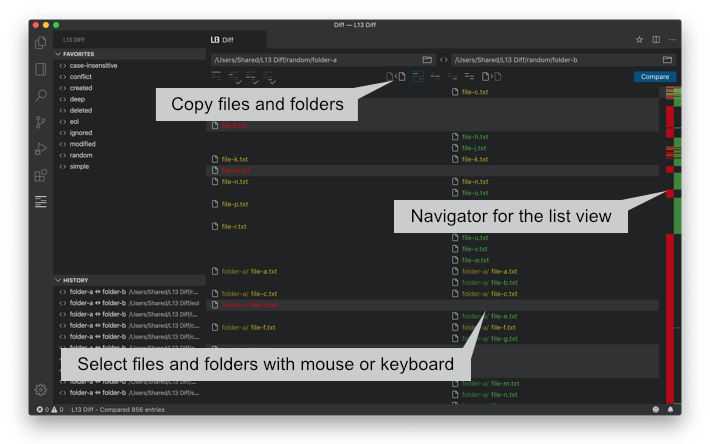
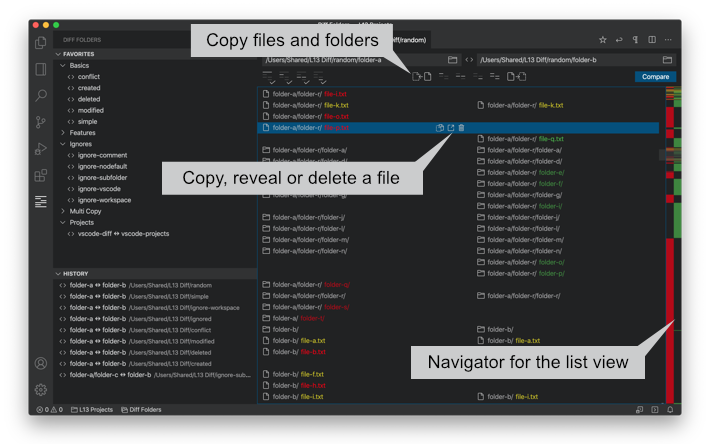
- added new preview images

diff --git a/README.md b/README.md
@@ -8,7 +8,7 @@ Compare two folders in Visual Studio Code.
 
 - Changed display name for extension from `L13 Diff` to `Diff Folders`.
 - Added drag'n drop support for path names in the list view which makes cross diffs possible. Please read the description `List Drag'n Drop` to see how it works.
-- Added groups to favorites to group your favorite diff and open all at once.
+- Added groups for favorites to group your diffs and open all at once.
 - Added `l13Diff.initialFavoriteGroupState` to set the initial state of the groups.
 
 ## Features
@@ -36,25 +36,13 @@ Compare two folders in Visual Studio Code.
 * Open multiple panels by click on the icon in the favorites view.
 * Copy the same files from the same location to multiple folders at once.
 
-### Welcome
-
-![Diff Folders Welcome](images/preview-welcome.png)
-
 ### Basics
 
 ![Diff Folders Basics](images/preview-start.png)
 
-### Menu
-
-![Diff Folders Menu](images/preview-menu.png)
-
 ### Favorites
 
 ![Diff Folders Favorites](images/preview-favorites.png)
-
-### History
-
-![Diff Folders History](images/preview-history.png)
 
 ### Search, filter or select
 

diff --git a/CHANGELOG.md b/CHANGELOG.md
@@ -5,7 +5,7 @@ All notable changes to the "Diff Folders" extension will be documented in this f
 
 ### Added
 - Added drag'n drop support for path names in the list view which makes cross diffs possible. Please read the description `List Drag'n Drop` to see how it works.
-- Added groups to favorites to group your favorite diff and open all at once.
+- Added groups for favorites to group your diffs and open all at once.
 - Added `l13Diff.initialFavoriteGroupState` to set the initial state of the groups.
 
 ### Changed
